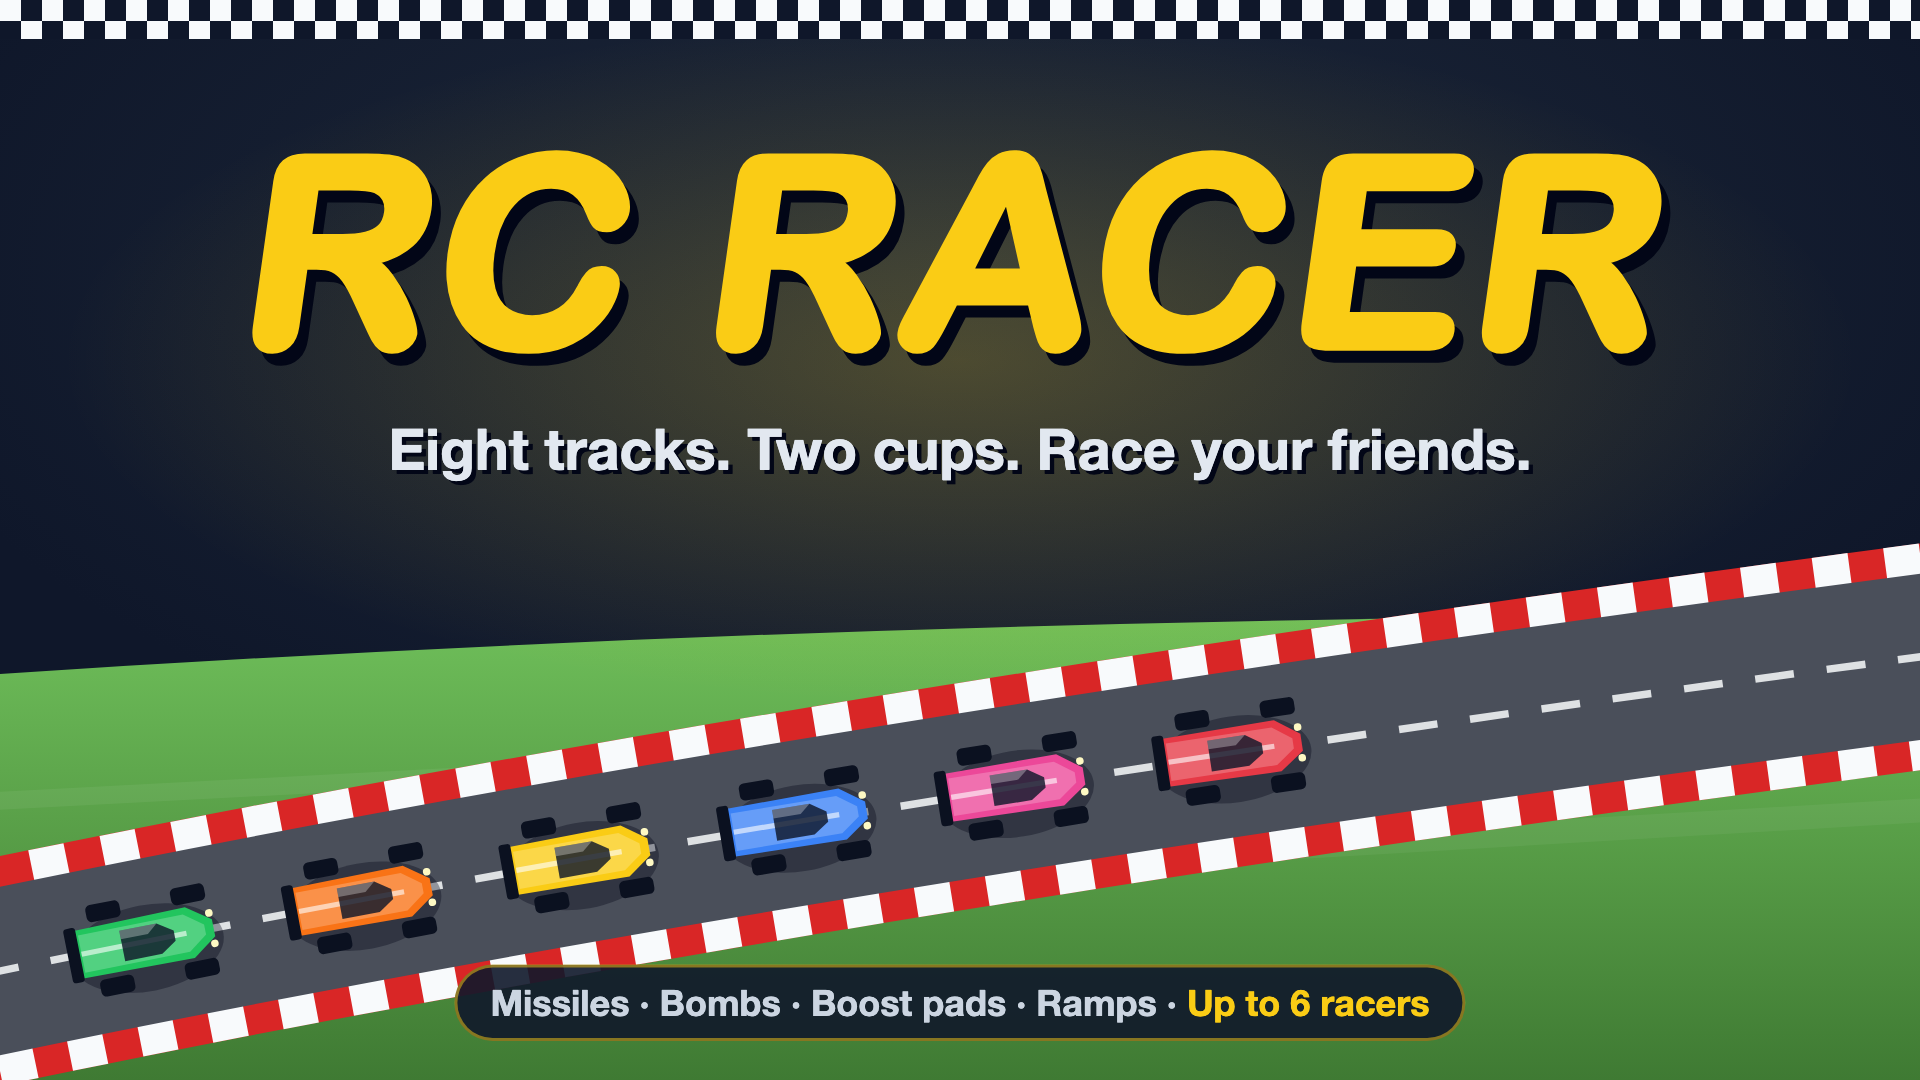
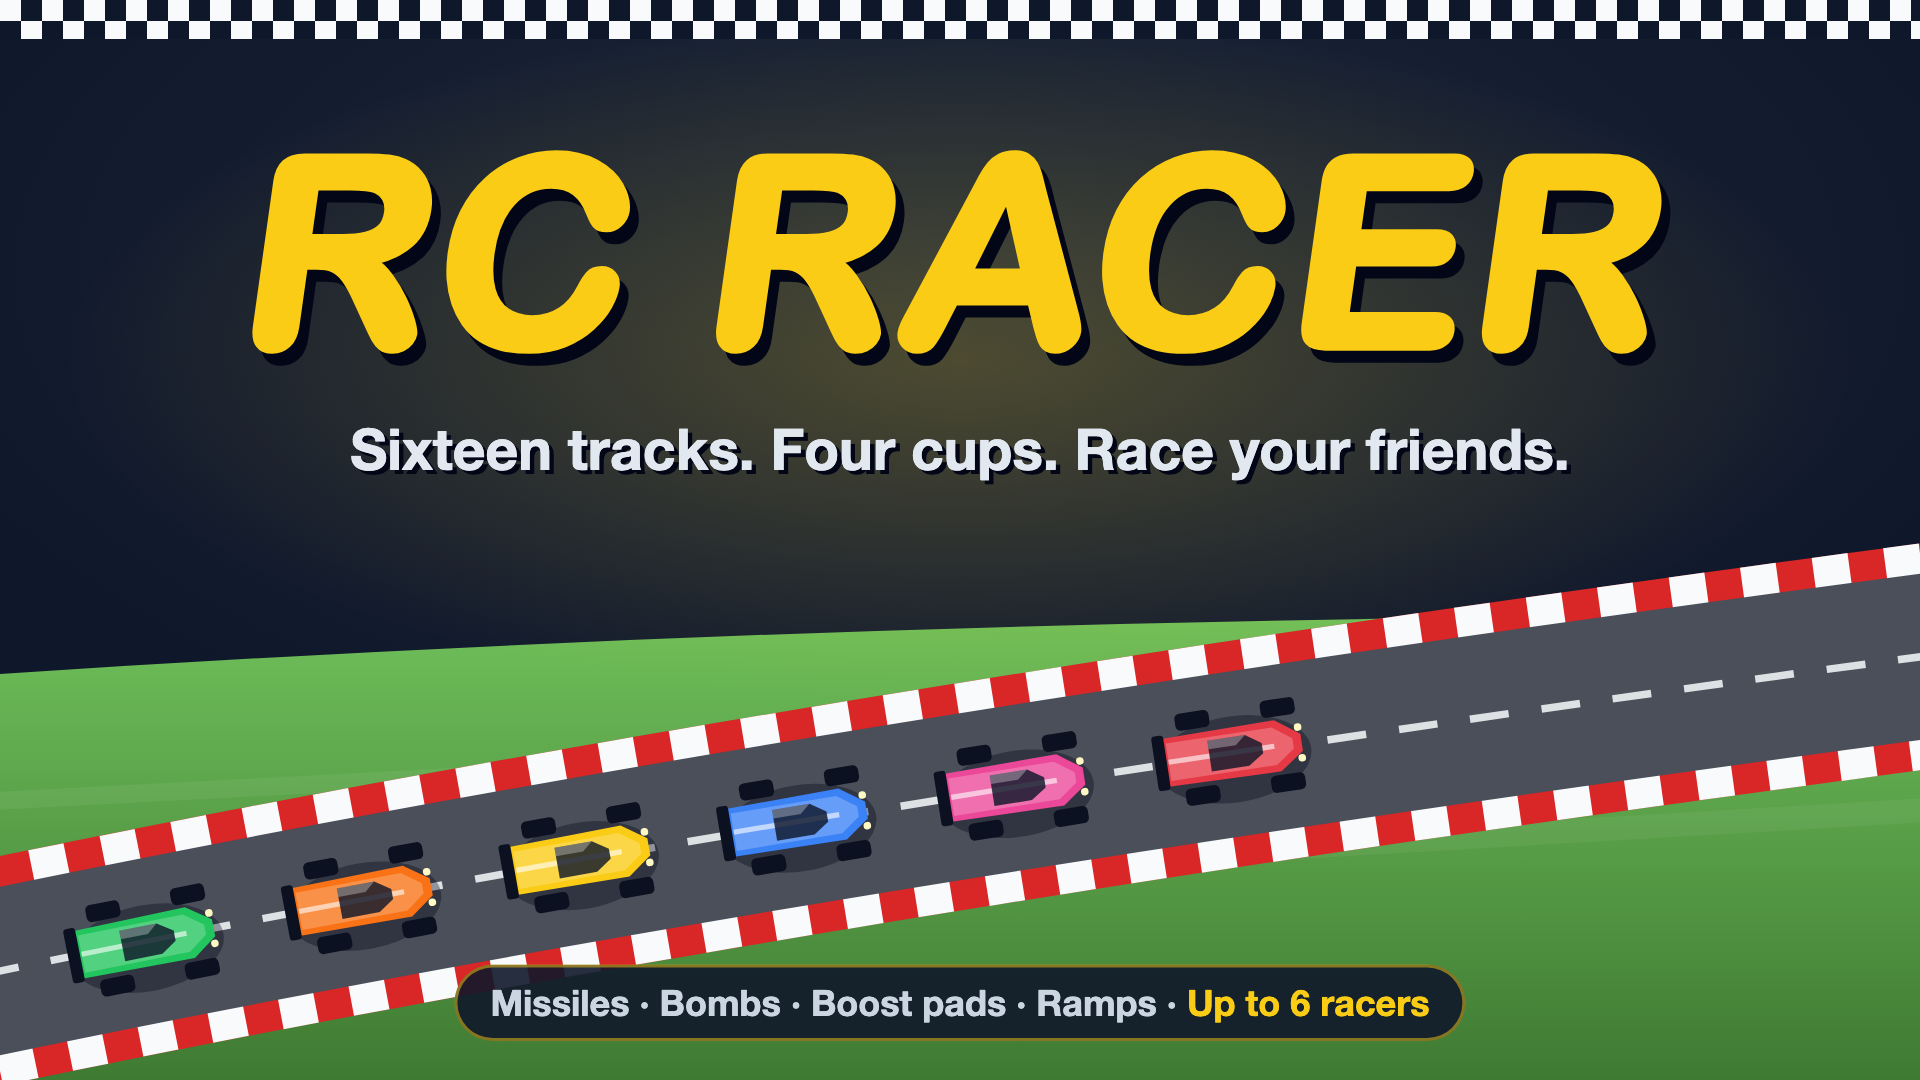
Update the thumbnail for sixteen tracks and four cups

Changed region(s): [[0.1875, 0.3972, 0.8125, 0.4583]]

diff --git a/design/thumbnail.html b/design/thumbnail.html
@@ -150,7 +150,7 @@
 
       <div class="logo-wrap">
         <h1 class="logo">RC RACER</h1>
-        <p class="tagline">Eight tracks. Two cups. Race your friends.</p>
+        <p class="tagline">Sixteen tracks. Four cups. Race your friends.</p>
       </div>
 
       <div class="footer">Missiles · Bombs · Boost pads · Ramps · <b>Up to 6 racers</b></div>
